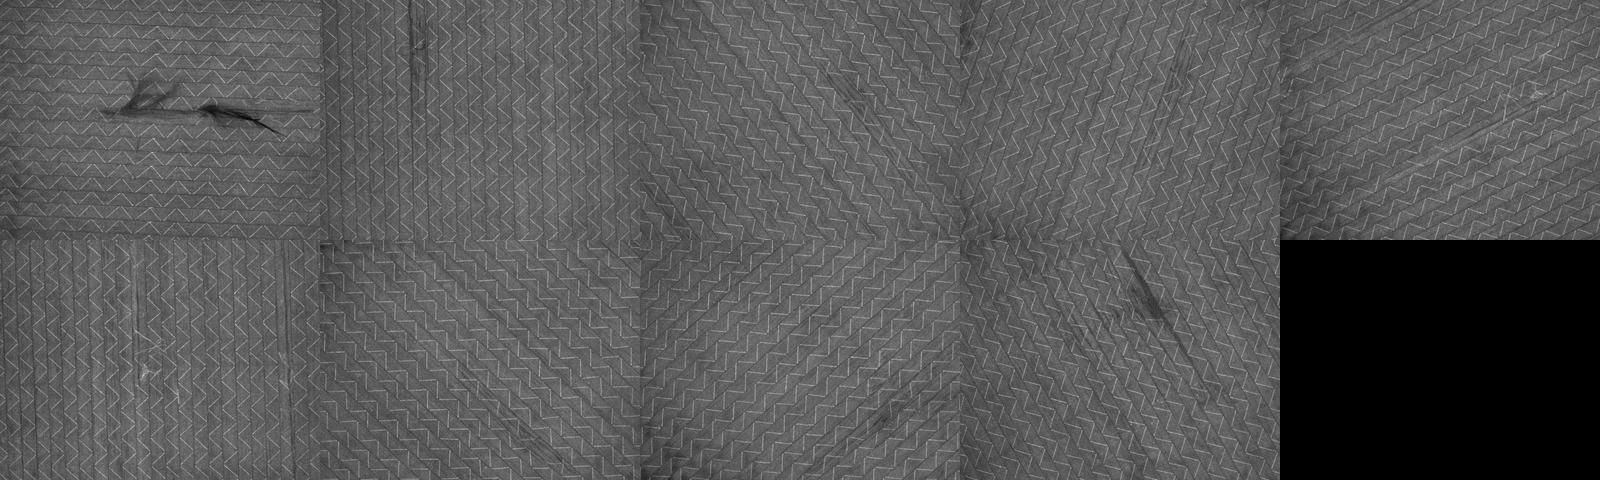
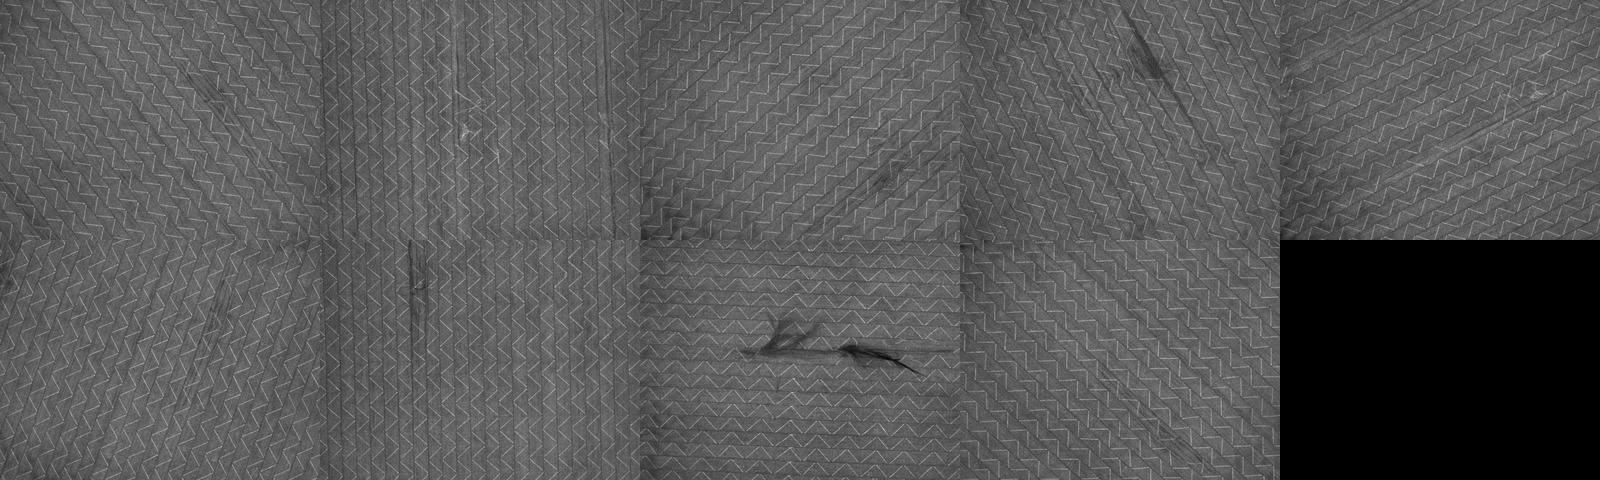
Arreglar bounding box en biblioteca de captutas

Changed region(s): [[0.0, 0.0, 0.8125, 1.0]]

diff --git a/static/js/app.js b/static/js/app.js
@@ -180,6 +180,7 @@ fetch('/annotate/classes_meta').then(r=>r.json()).then(j=>{
 });
 
 // ======= Helpers de overlay para Lightbox =======
+// ======= Helpers de overlay para Lightbox (actualizado con escala real) =======
 function _computeContainRect(containerEl, imgEl) {
   const cw = containerEl.clientWidth;
   const ch = containerEl.clientHeight;
@@ -190,7 +191,7 @@ function _computeContainRect(containerEl, imgEl) {
   const dispH = ih * scale;
   const offsetX = (cw - dispW) / 2;
   const offsetY = (ch - dispH) / 2;
-  return { left: offsetX, top: offsetY, width: dispW, height: dispH };
+  return { left: offsetX, top: offsetY, width: dispW, height: dispH, scale };
 }
 
 function layoutLightboxOverlayAndDraw() {
@@ -205,17 +206,38 @@ function layoutLightboxOverlayAndDraw() {
   overlay.style.top = rect.top + 'px';
   overlay.style.width = rect.width + 'px';
   overlay.style.height = rect.height + 'px';
-
   overlay.innerHTML = '';
-  drawBoxesOnLayer(overlay, _lbBoxes);
+
+  const boxes = _lbBoxes || [];
+  if (!boxes.length) return;
+
+  boxes.forEach(b => {
+    const color = classPalette[b.cls] || '#00ff00';
+    const name = classNames[b.cls] || `C${b.cls}`;
+
+    const bx = (b.xc - b.w / 2) * rect.width;
+    const by = (b.yc - b.h / 2) * rect.height;
+    const bw = b.w * rect.width;
+    const bh = b.h * rect.height;
+
+    const box = document.createElement('div');
+    box.className = 'bbox';
+    box.style.borderColor = color;
+    box.style.left = bx + 'px';
+    box.style.top = by + 'px';
+    box.style.width = bw + 'px';
+    box.style.height = bh + 'px';
+
+    const label = document.createElement('div');
+    label.className = 'bbox-label';
+    label.style.background = color;
+    label.textContent = name;
+    box.appendChild(label);
+
+    overlay.appendChild(box);
+  });
 }
 
-window.addEventListener('resize', () => {
-  const lb = document.getElementById('lightbox');
-  if (lb && !lb.classList.contains('hidden')) {
-    layoutLightboxOverlayAndDraw();
-  }
-});
 
 // ======= Biblioteca (thumbnails) =======
 function renderLibrary(dataOrUrls) {
@@ -1039,3 +1061,170 @@ deleteSheetBtn?.addEventListener('click', async () => {
     alert("Error de red al borrar lámina.");
   }
 });
+
+// ==============================
+// VISUALIZACIÓN DE BOUNDING BOXES
+// ==============================
+
+// Paleta global desde /annotate/classes_meta
+let classPalette = {};
+let classNames = {};
+
+fetch('/annotate/classes_meta')
+  .then(r => r.json())
+  .then(j => {
+    (j.classes || []).forEach((c, i) => {
+      classPalette[i] = c.color || '#00ff00';
+      classNames[i] = c.name || `C${i}`;
+    });
+  });
+
+// ---------- LÁMINA EN DIRECTO ----------
+async function drawLiveSheetWithBoxes(items) {
+  if (!sheetCtx || !sheetCanvas) return;
+  sheetCtx.clearRect(0, 0, sheetCanvas.width, sheetCanvas.height);
+  const list = (items || []).slice(0, SHEET_COLS * SHEET_ROWS);
+  const imgs = await Promise.all(
+    list.map(it => new Promise(res => {
+      const im = new Image();
+      im.onload = () => res({ im, boxes: it.boxes || [] });
+      im.onerror = () => res(null);
+      im.src = it.url + '?t=' + Date.now();
+    }))
+  );
+
+  let idx = 0;
+  for (const it of imgs) {
+    const r = Math.floor(idx / SHEET_COLS);
+    const c = idx % SHEET_COLS;
+    const dx = c * TILE_W;
+    const dy = r * TILE_H;
+
+    if (it && it.im) {
+      drawCover(sheetCtx, it.im, dx, dy, TILE_W, TILE_H);
+      drawBoxesOnSheet(sheetCtx, it.boxes || [], dx, dy, TILE_W, TILE_H, it.im.naturalWidth, it.im.naturalHeight);
+    } else {
+      sheetCtx.fillStyle = '#111';
+      sheetCtx.fillRect(dx, dy, TILE_W, TILE_H);
+    }
+    idx++;
+  }
+
+  if (sheetStatus) sheetStatus.textContent = `Lámina en directo — capa ${sheetLayerId}`;
+}
+
+function drawBoxesOnSheet(ctx, boxes, dx, dy, tw, th, iw, ih) {
+  if (!boxes || !boxes.length) return;
+  ctx.save();
+  ctx.lineWidth = 2;
+  boxes.forEach(b => {
+    const color = classPalette[b.cls] || '#00ff00';
+    const x = (b.xc - b.w/2) * tw;
+    const y = (b.yc - b.h/2) * th;
+    const w = b.w * tw;
+    const h = b.h * th;
+    ctx.strokeStyle = color;
+    ctx.strokeRect(dx + x, dy + y, w, h);
+    ctx.fillStyle = color;
+    ctx.font = '12px Segoe UI';
+    ctx.fillText(`C${b.cls}`, dx + x + 2, dy + y + 12);
+  });
+  ctx.restore();
+}
+
+// Sobrescribimos tickLayerSheet para usar las cajas si existen
+const _tickLayerSheetOrig = tickLayerSheet;
+tickLayerSheet = async function() {
+  if (!sheetWatching) return;
+  try {
+    const lr = await fetch('/layers', { cache: 'no-store' });
+    const ldata = await lr.json();
+    sheetLayerId = ldata.current || 0;
+
+    const finalUrl = await checkFinalSheet(sheetLayerId);
+    if (finalUrl) {
+      if (sheetFinal) {
+        const cleanSrc = sheetFinal.src.split('?')[0];
+        if (!cleanSrc.endsWith(`/layer_${sheetLayerId}.jpg`)) sheetFinal.src = finalUrl;
+        sheetFinal.classList.remove('hidden');
+      }
+      if (sheetCanvas) sheetCanvas.classList.add('hidden');
+      if (sheetStatus) sheetStatus.textContent = `Lámina final generada — capa ${sheetLayerId}`;
+      stopSheetWatcher();
+      return;
+    }
+
+    // Live desde /state, con boxes
+    const sr = await fetch('/state', { cache: 'no-store' });
+    const sdata = await sr.json();
+    const items = sdata.items || [];
+    if (sheetFinal) sheetFinal.classList.add('hidden');
+    if (sheetCanvas) sheetCanvas.classList.remove('hidden');
+    await drawLiveSheetWithBoxes(items);
+
+  } catch (e) {
+    console.warn('tickLayerSheet (bbox) error:', e);
+    if (sheetStatus) sheetStatus.textContent = 'Lámina: error al actualizar';
+  }
+};
+
+// ---------- BIBLIOTECA DE CAPTURAS ----------
+const _renderLibraryOrig = renderLibrary;
+// ---------- BIBLIOTECA DE CAPTURAS (solo canvas con boxes) ----------
+renderLibrary = function(dataOrUrls) {
+  const thumbs = document.getElementById('thumbs');
+  thumbs.innerHTML = '';
+
+  // Normalizamos items: [{url, boxes}] o [url]
+  const items = (dataOrUrls && dataOrUrls.length && typeof dataOrUrls[0] === 'object')
+    ? dataOrUrls
+    : (dataOrUrls || []).map(u => ({ url: u, boxes: [] }));
+
+  for (const it of items) {
+    const wrap = document.createElement('div');
+    wrap.className = 'thumb-wrap';
+
+    // Canvas único (sin imagen duplicada)
+    const canvas = document.createElement('canvas');
+    canvas.width = 160;  // tamaño thumbnail
+    canvas.height = 120;
+    canvas.className = 'thumb-canvas';
+    wrap.appendChild(canvas);
+    thumbs.appendChild(wrap);
+
+    const ctx = canvas.getContext('2d');
+    const img = new Image();
+    img.crossOrigin = 'anonymous';
+    img.onload = () => {
+      // centrado tipo "contain"
+      const scale = Math.min(canvas.width / img.naturalWidth, canvas.height / img.naturalHeight);
+      const w = img.naturalWidth * scale;
+      const h = img.naturalHeight * scale;
+      const x = (canvas.width - w) / 2;
+      const y = (canvas.height - h) / 2;
+
+      // dibujar imagen base
+      ctx.drawImage(img, x, y, w, h);
+
+      // dibujar cajas
+      (it.boxes || []).forEach(b => {
+        const color = classPalette[b.cls] || '#00ff00';
+        const bx = x + (b.xc - b.w/2) * w;
+        const by = y + (b.yc - b.h/2) * h;
+        const bw = b.w * w;
+        const bh = b.h * h;
+        ctx.strokeStyle = color;
+        ctx.lineWidth = 1.5;
+        ctx.strokeRect(bx, by, bw, bh);
+        ctx.fillStyle = color;
+        ctx.font = '10px Segoe UI';
+        ctx.fillText(`C${b.cls}`, bx + 2, by + 10);
+      });
+    };
+    img.src = it.url + '?t=' + Date.now();
+
+    // Click = abrir en lightbox con sus boxes
+    canvas.addEventListener('click', () => openLightbox(it));
+  }
+};
+

diff --git a/static/css/app.css b/static/css/app.css
@@ -401,3 +401,23 @@ body{
 .class-row .del{min-width:34px; height:34px; border-radius:8px; cursor:pointer;
   border:1px solid var(--border); background:#2a2f3a; color:#fff; font-weight:800;}
 .class-row .del:hover{background:#333b49}
+
+/* ====== PAN MODE ====== */
+
+/* Atenuado de las coordenadas durante pan */
+.coords-hud.dim {
+  opacity: .35;
+  filter: saturate(0.7);
+  transition: opacity .15s ease, filter .15s ease;
+}
+
+/* HUD en modo pan (texto en ámbar y parpadeo) */
+#hud.pan-mode {
+  color: var(--warn, #f59e0b);
+  animation: panBlink 1s infinite alternate;
+}
+
+@keyframes panBlink {
+  from { opacity: 1; }
+  to   { opacity: 0.6; }
+}
